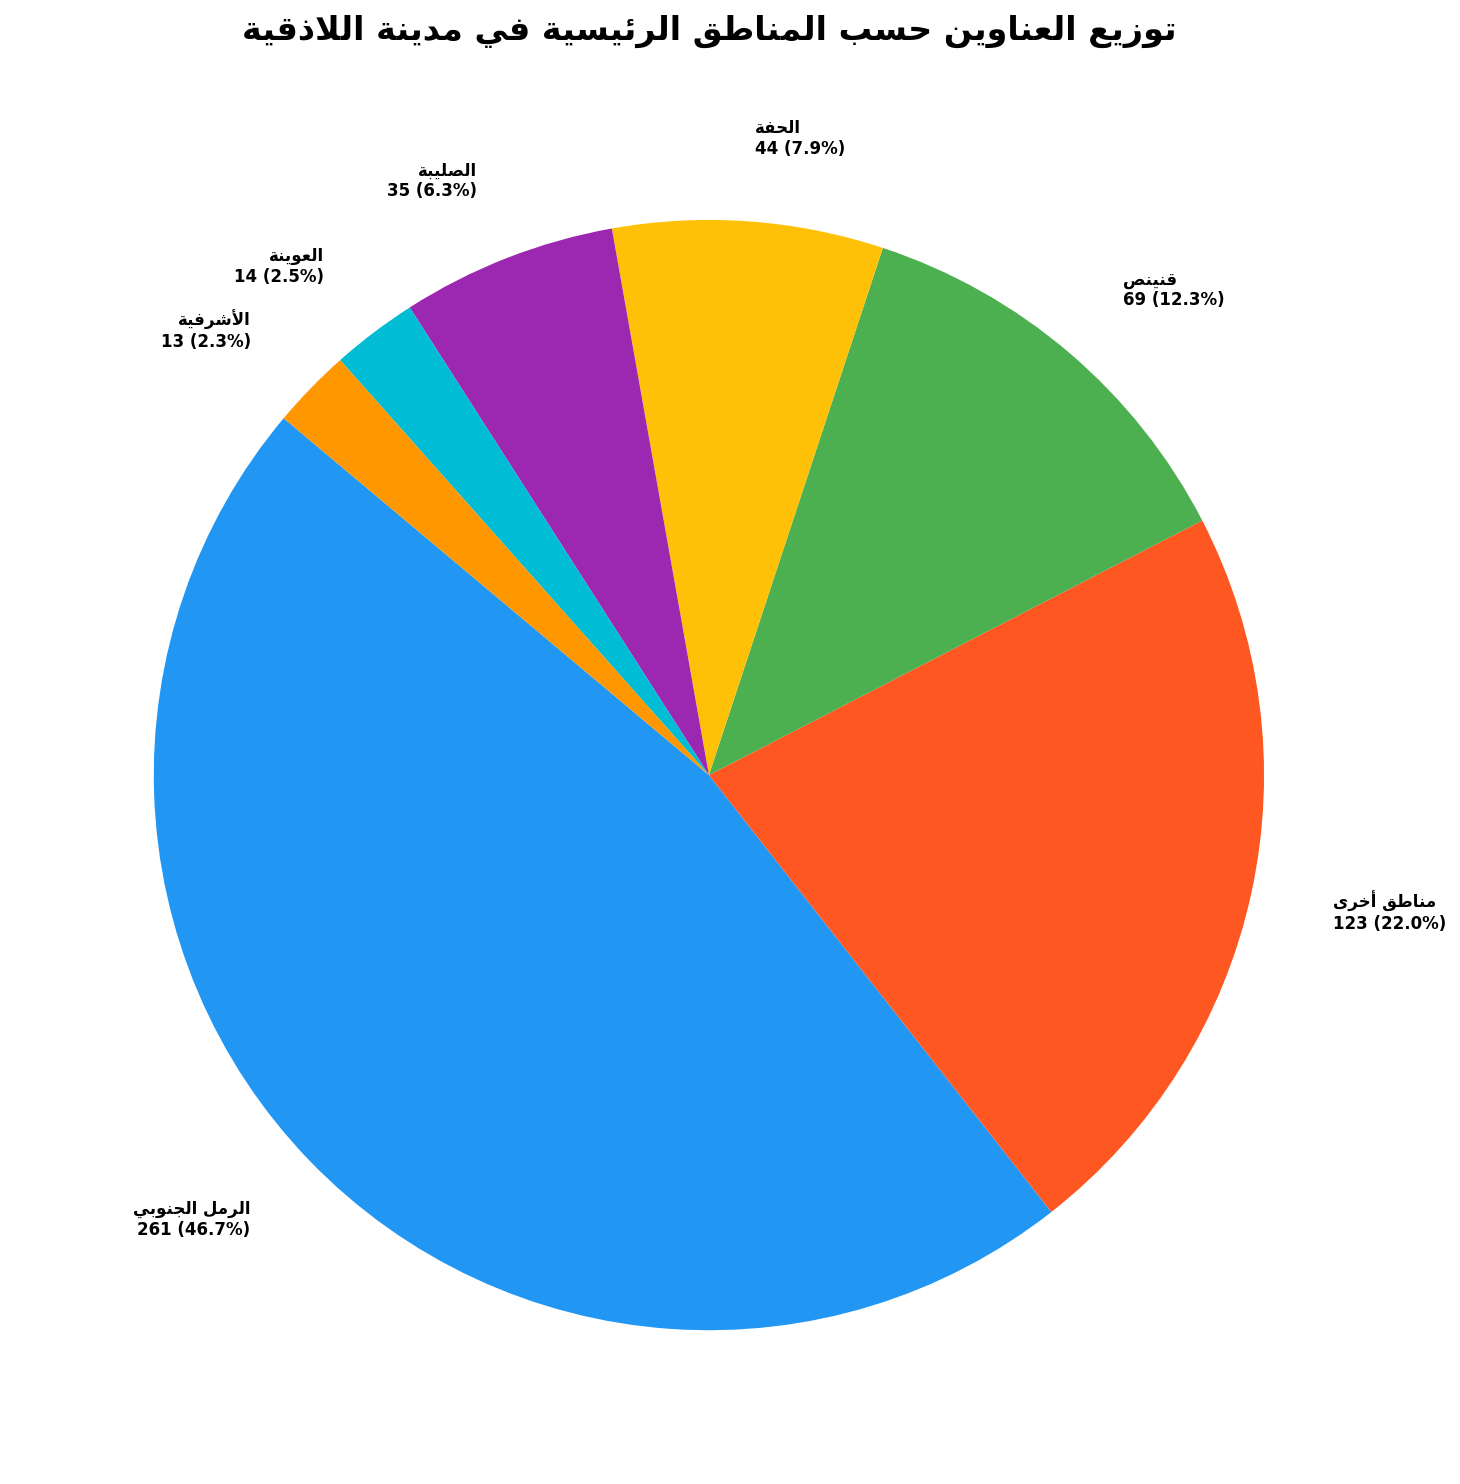
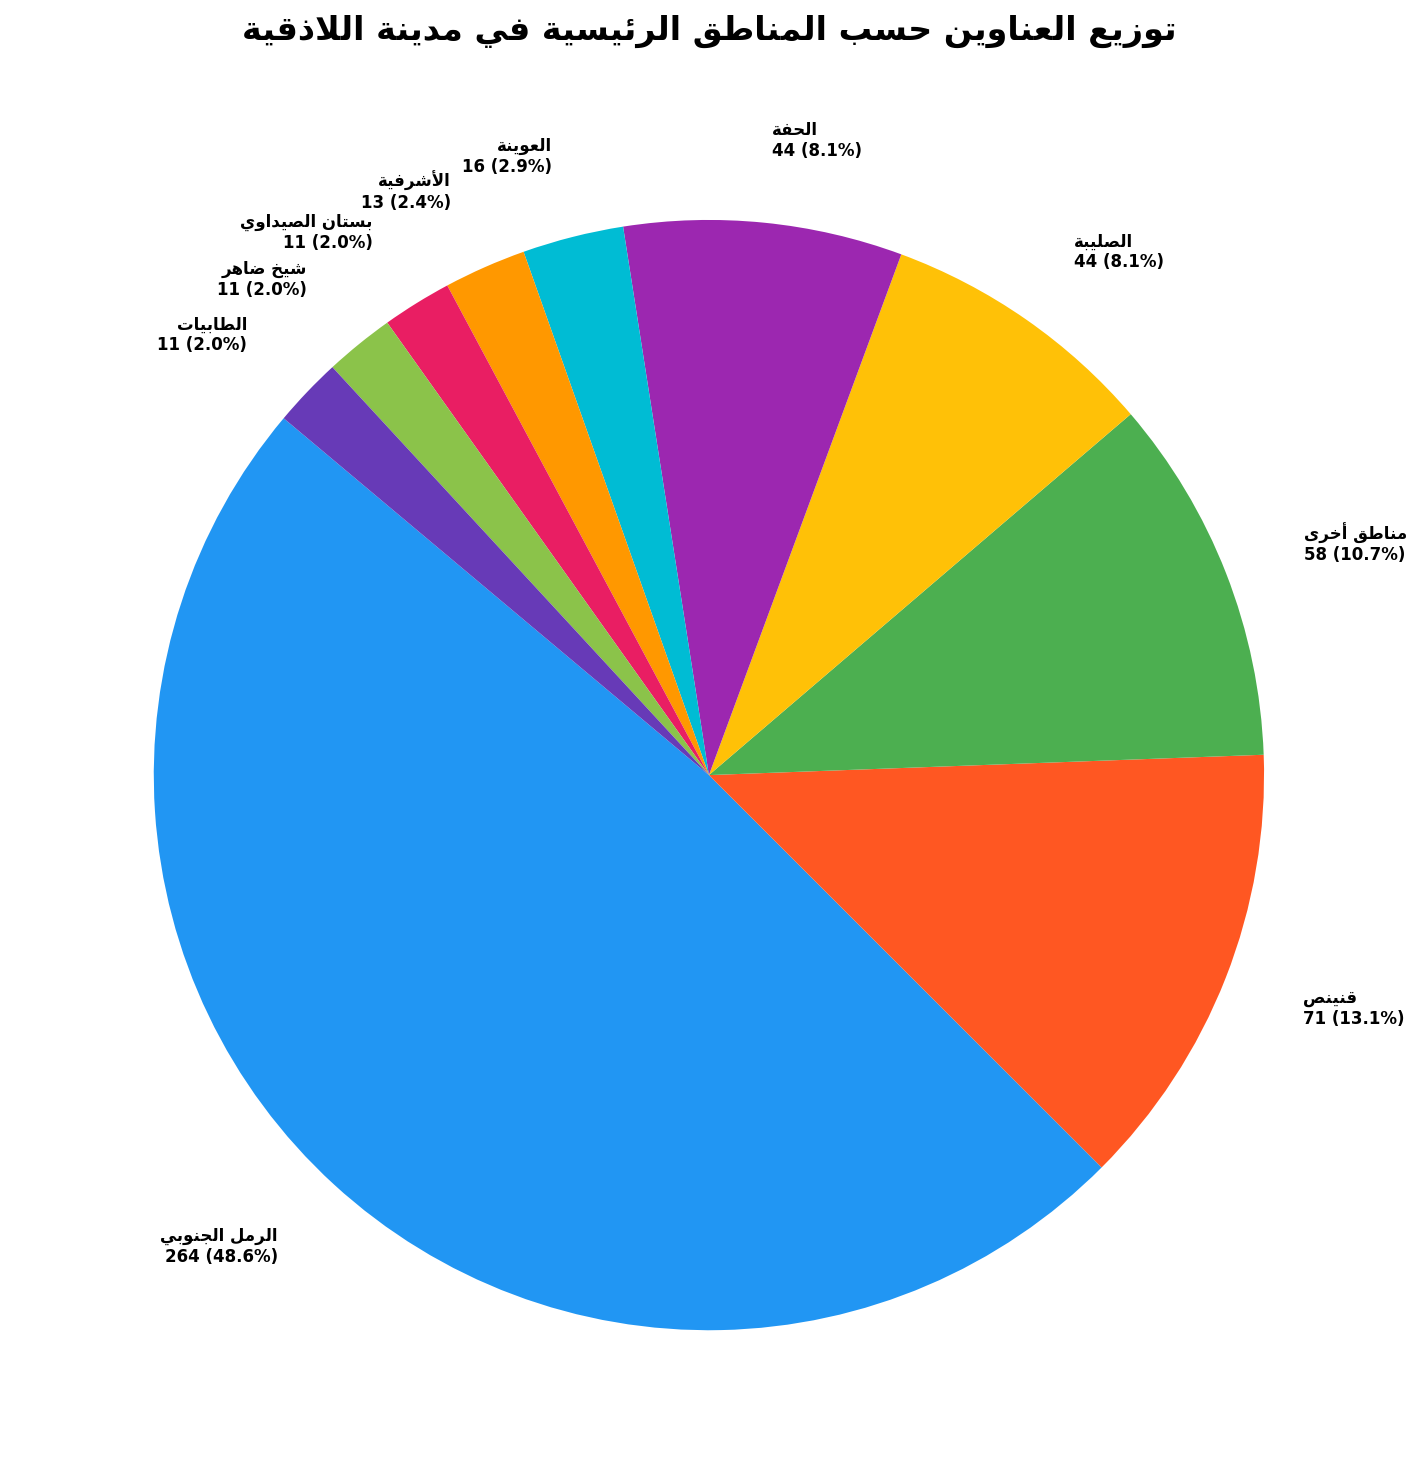
Apply user classifications: add new area keywords, outside-city filter
Incorporated user's manual classification of 36 previously unclassified
addresses. Added keywords for الصليبة، العوينة، شيخ ضاهر، حي السجن،
مشروع القلعة، طريق الحرش، قنينص، الرمل الجنوبي. Added OUTSIDE_LATTAKIA
keyword list to exclude 16 addresses (Turkey, Jableh, Damascus, etc.).
Only 1 garbage entry remains unclassified.

https://claude.ai/code/session_01AGdX9Bief8NEjiA5Pyxqen

diff --git a/classify_addresses_report.py b/classify_addresses_report.py
@@ -76,6 +76,9 @@ AREA_DEFINITIONS = [
         "سوق الخضرة", "سوق الخضار",
         # فرن قلاب / فرن القلاب
         "فرن قلاب", "فرن القلاب",
+        # مشاريع ضمن الرمل الجنوبي
+        "نزلة خالد ابن الوليد", "مدرسة الاشتراكية", "المشروع الثاني",
+        "المشروع التاني",
     ]),
     # ── قنينص includes: بساتين الريحان، المشاحير، حارة علي جمال، ضاحية الزيتونة
     ("قنينص", "Qunainiss", [
@@ -88,10 +91,18 @@ AREA_DEFINITIONS = [
         "حارة علي جمال", "علي جمال",
         # ضاحية الزيتونة
         "ضاحية الزيتونة",
+        # مشاريع ضمن قنينص
+        "مشروع السابع", "الرويسة بسنادا",
     ]),
     ("الصليبة", "Al-Sulayba", [
         "صليبة", "صليبه", "الصليبة", "مشروع صليبة", "مشروع صليبه",
         "مشروع الصليبة",
+        # مناطق ضمن الصليبة
+        "اوغاريت", "ابي تمام", "مشروع ب",
+        "شارع الغافقي", "جامع الجديد",
+        "فرن الكرامة", "طريق المستودعات",
+        "جامعة الشام", "شارع بغداد", "المشفى الوطني",
+        "جامع ياسين",
     ]),
     ("الحفة", "Al-Haffa", [
         "الحفة", "الحفه", "حفة", "لحفه", "الخفة",
@@ -101,6 +112,8 @@ AREA_DEFINITIONS = [
     ]),
     ("العوينة", "Al-Uwaina", [
         "العوينة", "العوينه", "لعوينه",
+        # مناطق ضمن العوينة
+        "سوق التجار", "جامع المشاطي",
     ]),
     ("الأشرفية", "Al-Ashrafiyya", [
         "الاشرفية", "الأشرفية", "لاشرفيه", "اشرفية",
@@ -114,12 +127,16 @@ AREA_DEFINITIONS = [
     ("شيخ ضاهر", "Sheikh Daher", [
         "شيخضاهر", "شيخ ضاهر", "شبخ ضاهر", "الشيخضاهر", "الشخصاهر",
         "بالشخصاهر",
+        # مناطق ضمن شيخ ضاهر
+        "شارع هنانو", "٨ اذار",
     ]),
     ("حي القصور", "Hay Al-Qusur (Palaces Quarter)", [
         "حي القصور", "حي لقصور", "لقصور", "القصور",
     ]),
     ("حي السجن", "Hay Al-Sijn (Prison Quarter)", [
         "حي السجن",
+        # مناطق ضمن حي السجن
+        "ساحه حلوم", "ساحة حلوم", "الرمل الشمالي",
     ]),
     ("حي الفاروس", "Hay Al-Farous", [
         "حي الفاروس", "الفاروس",
@@ -136,6 +153,8 @@ AREA_DEFINITIONS = [
     ("مشروع القلعة", "Al-Qala'a Project", [
         "مشروع القلعة", "مشروع لقلعه", "مشروع لاقلاعه", "مشروع تجميل القلعة",
         "القلعة",
+        # مناطق ضمن مشروع القلعة
+        "فندق ريفيرا",
     ]),
     ("شارع بور سعيد", "Port Said Street", [
         "بور سعيد", "بوور سعيد",
@@ -145,8 +164,31 @@ AREA_DEFINITIONS = [
     ]),
     ("طريق الحرش", "Tariq Al-Hirsh", [
         "طريق الحرش",
+        # مناطق ضمن طريق الحرش
+        "ساحة اليمن", "ساحه اليمن", "جامع خالد ابن الوليد",
     ]),
 ]
+
+# ── Addresses outside Lattakia city (excluded from classification) ──
+OUTSIDE_LATTAKIA_KEYWORDS = [
+    "تركيا", "غازي عنتاب", "غازي عنناب",
+    "صليب التركمان",
+    "ابن هاني",
+    "جبلة", "العمارة",
+    "البصه شيخ الحمى", "البصه",
+    "مخيم سلمى", "خربة الجوز",
+    "البدروسية",
+    "سلمى",
+    "الحب والرويسة", "الحب و،  الرويسة",
+    "دمشق", "صهيا",
+    "وادي الشيخان", "وادي شيخان",
+]
+
+
+# ── Exact-match overrides for ambiguous standalone addresses ──
+EXACT_MATCH_OVERRIDES = {
+    "اللاذقية": "شيخ ضاهر",
+}
 
 
 def classify_address(address: str) -> str:
@@ -154,6 +196,13 @@ def classify_address(address: str) -> str:
     if not address:
         return "غير محدد"
     addr = address.strip()
+    # Check exact-match overrides first
+    if addr in EXACT_MATCH_OVERRIDES:
+        return EXACT_MATCH_OVERRIDES[addr]
+    # Check if address is outside Lattakia city
+    for kw in OUTSIDE_LATTAKIA_KEYWORDS:
+        if kw in addr:
+            return "خارج اللاذقية"
     for area_ar, _, keywords in AREA_DEFINITIONS:
         for kw in keywords:
             if kw in addr:
@@ -200,22 +249,29 @@ def get_english_name(area_ar):
             return en
     if area_ar == "مناطق أخرى":
         return "Other Areas"
+    if area_ar == "خارج اللاذقية":
+        return "Outside Lattakia"
     return "Unspecified"
 
 
 def generate_pie_chart(area_counts, total_with_address, output_path):
     """Generate a pie chart of area distribution."""
+    # Exclude outside-city addresses from the chart
+    chart_counts = {k: v for k, v in area_counts.items() if k != "خارج اللاذقية"}
+    chart_total = sum(chart_counts.values())
+
     # Merge small slices (< 2%) into "Other"
-    threshold = total_with_address * 0.02
+    threshold = chart_total * 0.02
     main_areas = {}
     other_count = 0
-    for area, count in area_counts.items():
+    for area, count in chart_counts.items():
         if count >= threshold and area != "مناطق أخرى":
             main_areas[area] = count
         else:
             other_count += count
     if other_count > 0:
         main_areas["مناطق أخرى"] = other_count
+    total_with_address = chart_total
 
     # Sort for consistent display
     sorted_areas = dict(sorted(main_areas.items(), key=lambda x: x[1], reverse=True))
